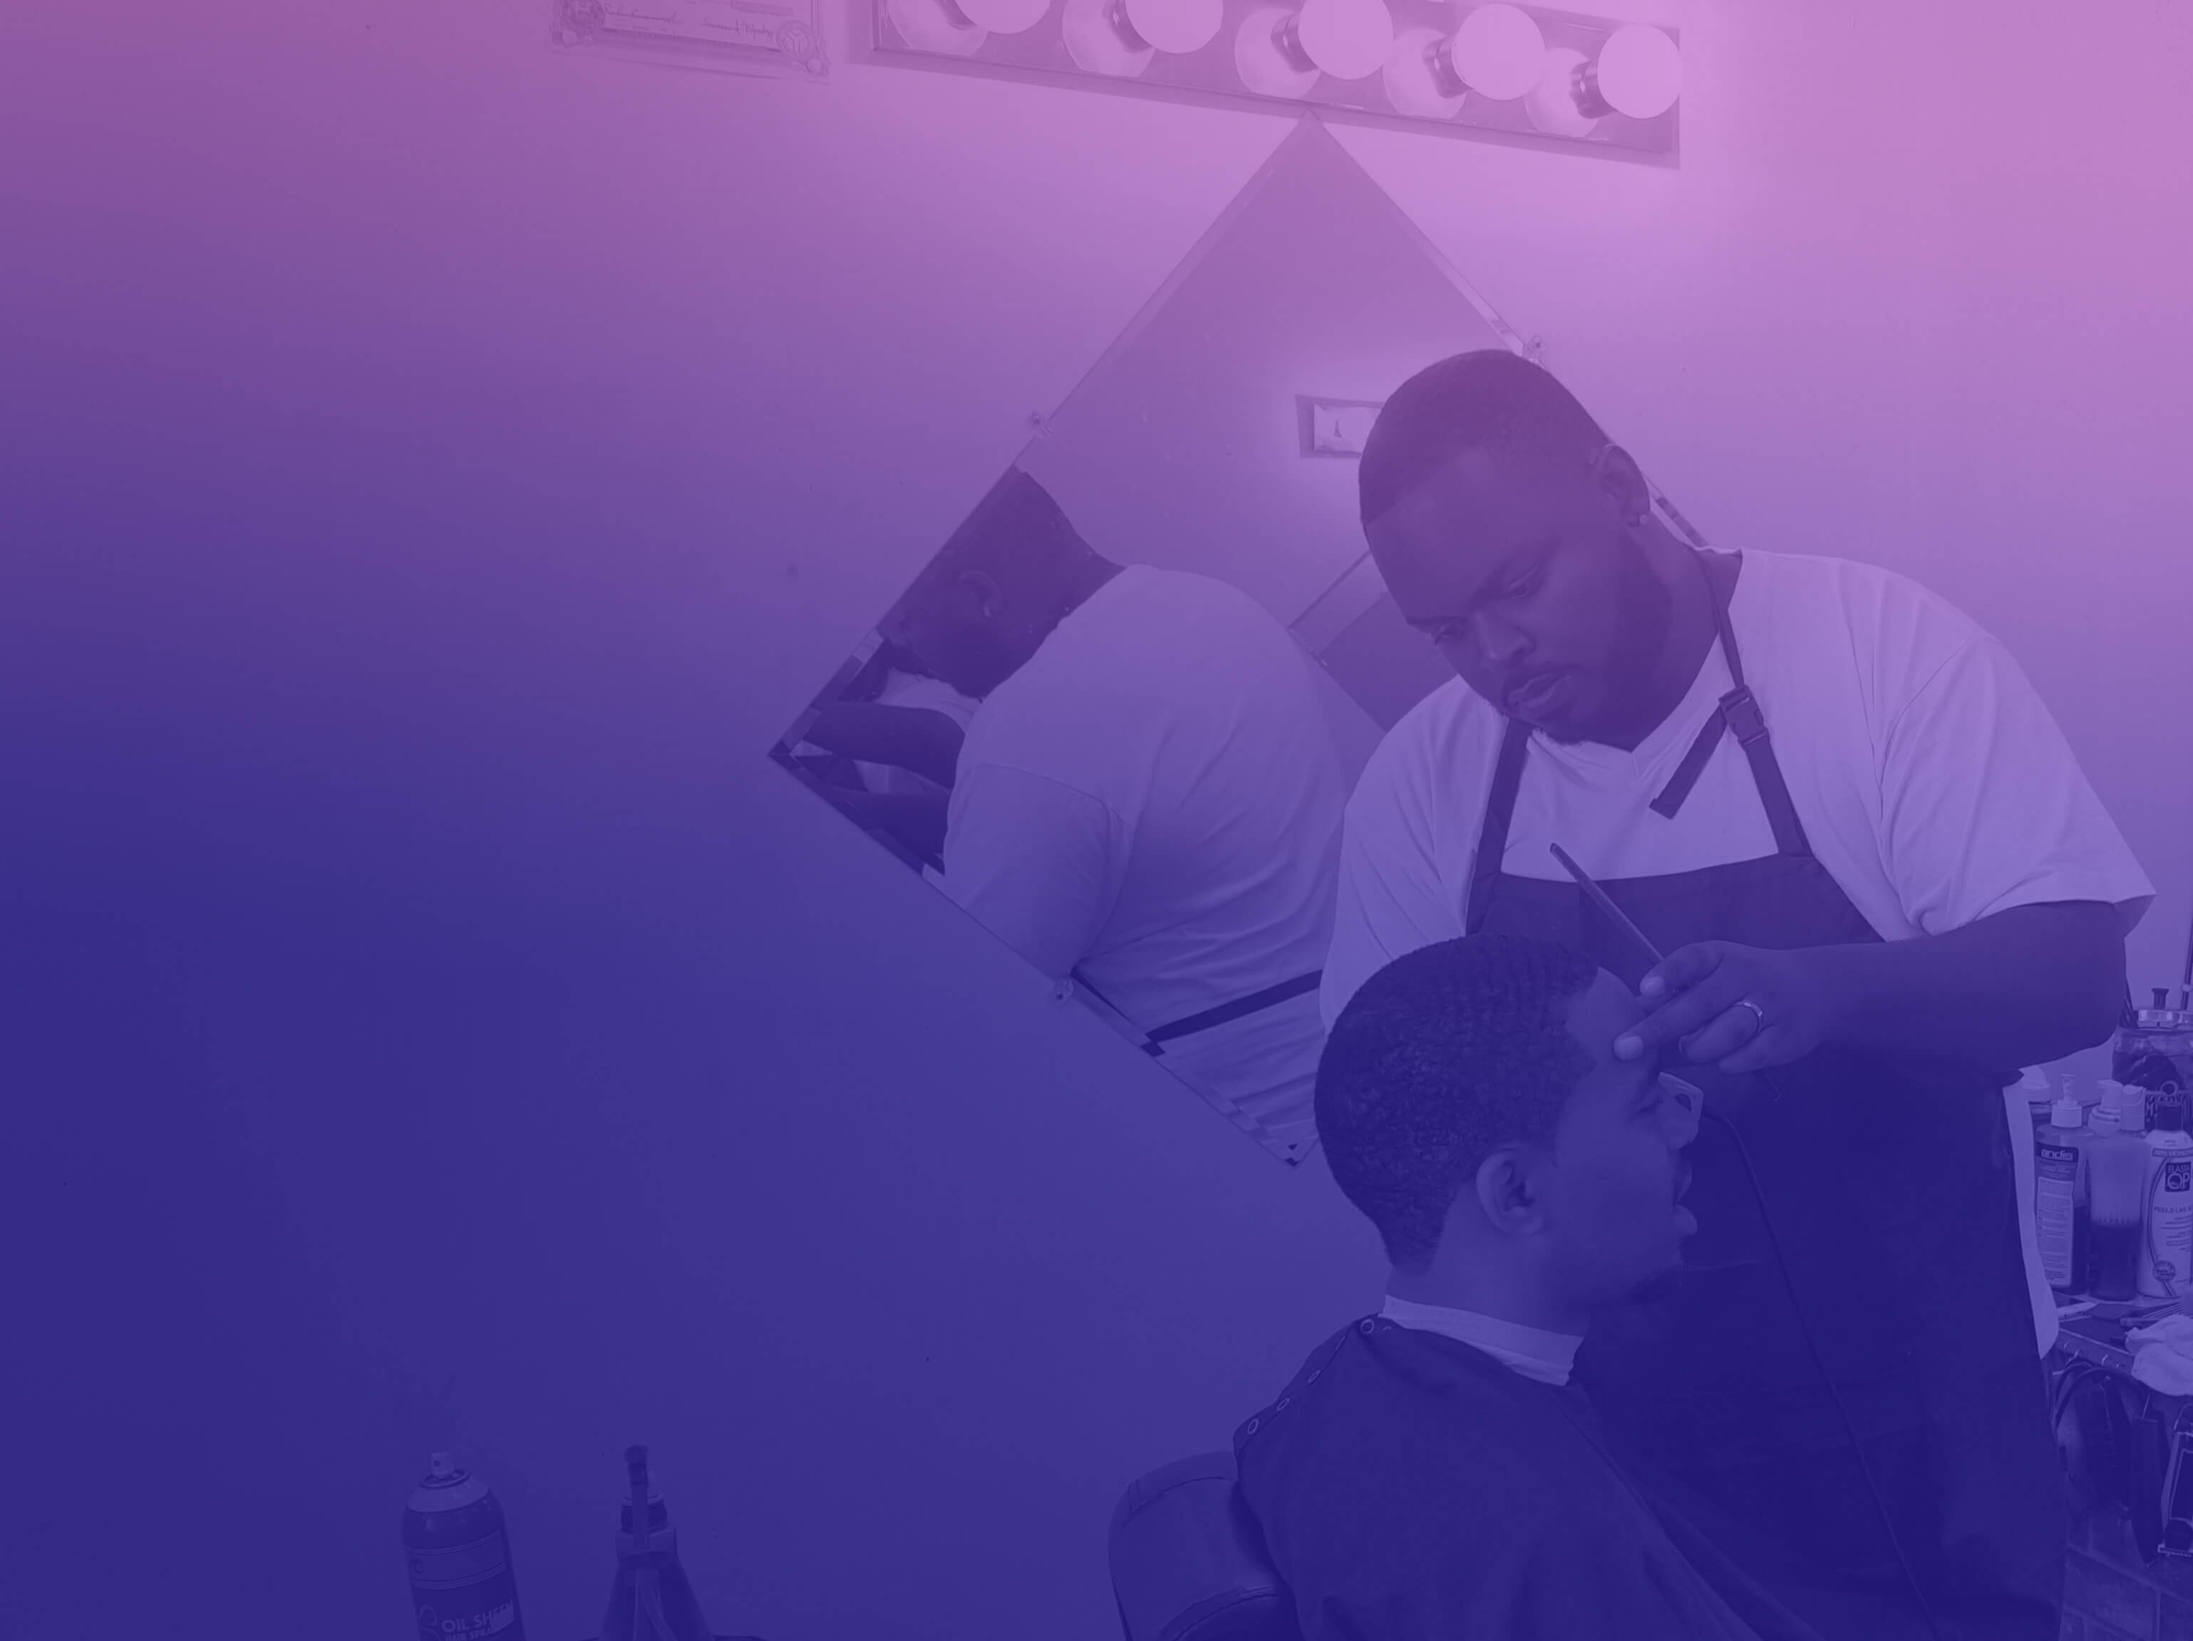
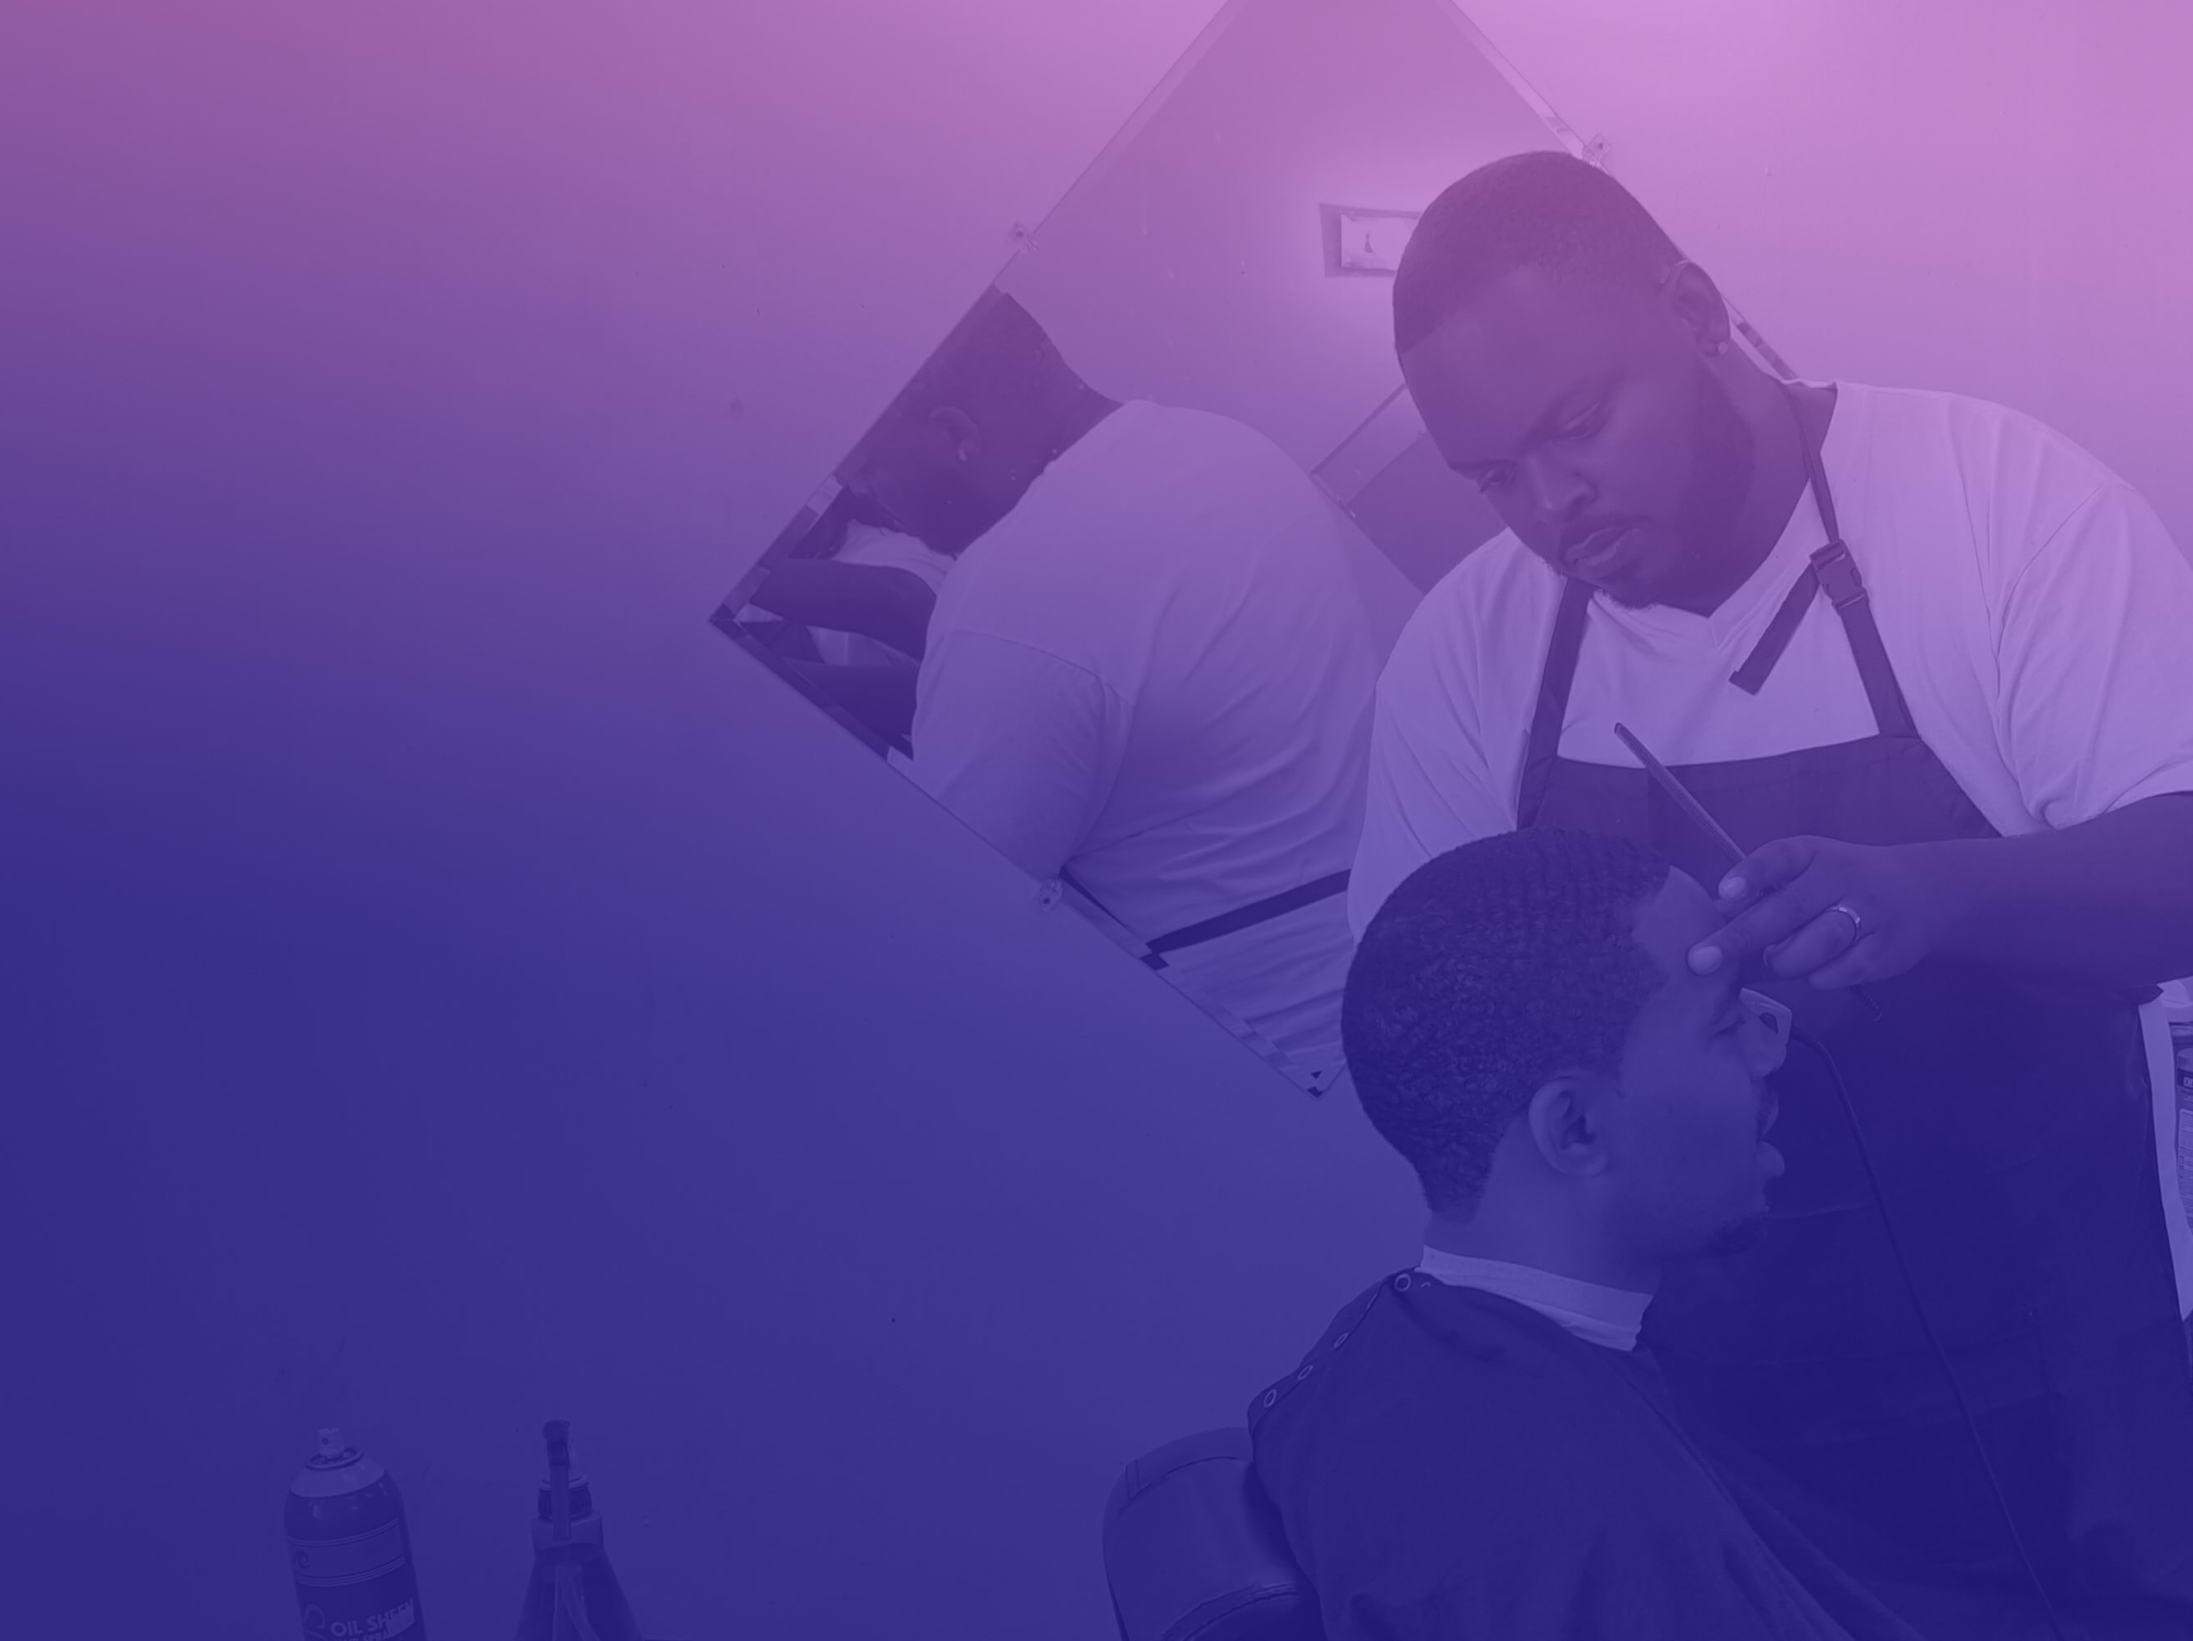
landing page changes

diff --git a/css/app.css b/css/app.css
@@ -6043,7 +6043,7 @@ section {
       height: 100%;
       width: 100%; }
       .jumbotron > .orbit > .orbit-container > .orbit-slide.slide-1 {
-        background: #5A1657 url("../img/orbit/Landing-Page-Blowdry.jpg") center center no-repeat;
+        background: #5A1657 url("../img/orbit/At-The-Barbershop.jpg") center center no-repeat;
         background-size: cover; }
       .jumbotron > .orbit > .orbit-container > .orbit-slide.slide-2 {
         background: #5A1657 url("../img/orbit/Becoming-Hairdressers.jpg") center center no-repeat;
@@ -6223,6 +6223,9 @@ section {
     .shop-entry:hover .options {
       visibility: visible; }
 
+.label {
+  vertical-align: middle; }
+
 .top-bar {
   background-color: transparent; }
   .top-bar ul {
@@ -6231,7 +6234,8 @@ section {
     text-transform: uppercase;
     transition: all ease-in 0.2s;
     -webkit-transition: all ease-in 0.2s;
-    padding: 0.7rem 2rem; }
+    padding: 0.7rem 2rem;
+    font-weight: 600; }
     .top-bar .menu li a.button:hover {
       color: #5A1657;
       background-color: #fefefe;

diff --git a/index.html b/index.html
@@ -14,8 +14,8 @@
 
             <div class="orbit" role="region" aria-label="Hero Section Images" data-orbit data-options="animInFromLeft:fade-in; animInFromRight:fade-in; animOutToLeft:fade-out; animOutToRight:fade-out;" data-pause-on-hover="false">
                 <ul class="orbit-container">
-                    <li class="slide-1 is-active orbit-slide"></li>
-                    <li class="slide-2 orbit-slide"></li>
+                    <!-- <li class="slide-1 is-active orbit-slide"></li> -->
+                    <li class="slide-2 is-active orbit-slide"></li>
                     <li class="slide-3 orbit-slide"></li>
                     <li class="slide-4 orbit-slide"></li>
                 </ul>

diff --git a/scss/components/layout.scss b/scss/components/layout.scss
@@ -192,7 +192,7 @@ section {
 				height: 100%;
 				width: 100%;
 				&.slide-1 {
-					background: $primary-color url('../img/orbit/Landing-Page-Blowdry.jpg') center center no-repeat;
+					background: $primary-color url('../img/orbit/At-The-Barbershop.jpg') center center no-repeat;
 					background-size: cover;
 				}
 				&.slide-2 {
@@ -438,4 +438,8 @@ section {
 			visibility: visible;
 		}
 	}
+}
+
+.label {
+	vertical-align: middle;
 }

diff --git a/scss/components/header.scss b/scss/components/header.scss
@@ -10,6 +10,7 @@
 				transition: all ease-in 0.2s;
 				-webkit-transition: all ease-in 0.2s;
 				padding: 0.7rem 2rem;
+				font-weight: 600;
 				&.button {
 					&:hover {
 						color: $primary-color;
